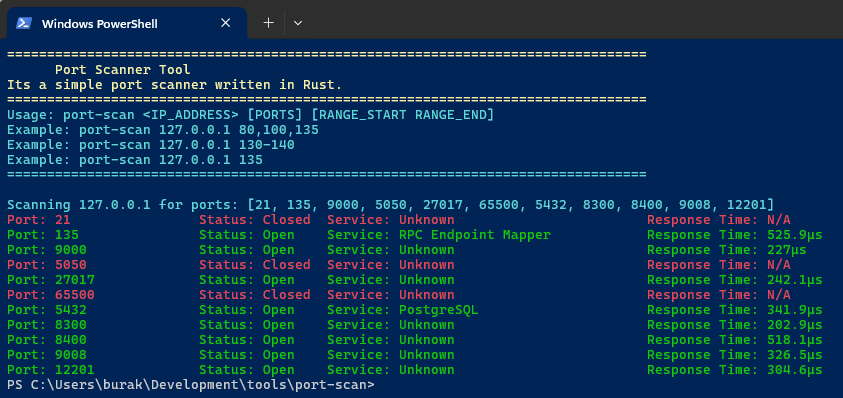
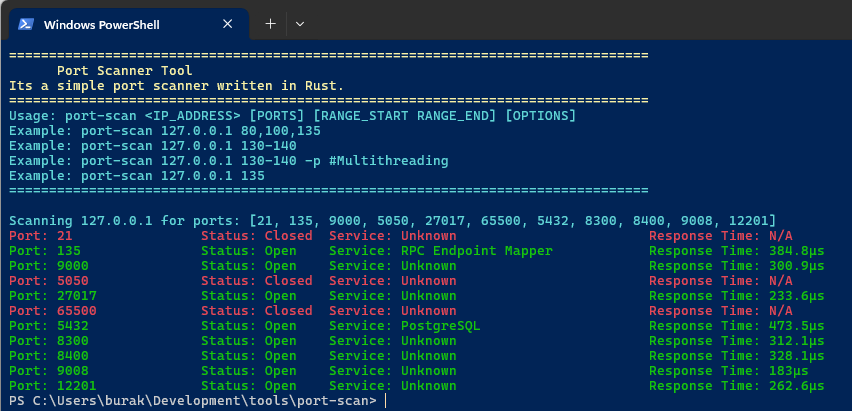
Update README and images for port scanner: enhance usage examples, add multithreading support, and include new output screenshots

Changed region(s): [[0.0, 0.1206, 0.987, 0.995], [0.0, 0.0, 0.1851, 0.0905], [0.2467, 0.0302, 0.2776, 0.0603]]

diff --git a/port-scan/README.md b/port-scan/README.md
@@ -5,25 +5,34 @@ Bu uygulama belirtilen IP adresindeki açık portları tarar ve sonuçları kull
 ## Kullanım
 
 ```bash
-cargo run -- <IP_ADRESI> <PORT|PORT_ARALIGI|PORT_LISTESI>
+cargo run -- <IP_ADRESI> <PORT|PORT_ARALIGI|PORT_LISTESI> [OPTIONS]
 
 # Örnekler:
-cargo run -- 192.168.1.1 80
-cargo run -- 192.168.1.1 1000-2000
-cargo run -- 192.168.1.1 22,80,443
+cargo run -- 192.168.1.1 80 # Tek bir portu tarama
+cargo run -- 192.168.1.1 1000-2000 # Belirli bir port aralığını tarama
+cargo run -- 192.168.1.1 22,80,443 # Belirli portları tarama
+cargo run -- 192.168.1.1 135-200 -p # Çoklu iş parçacığı kullanarak tarama
 ```
 
-## Çalışma Zamanından Örnekler
+## Örnek Ekran Çıktıları
 
 ```bash
+# Belli başlı portları tarama
 cargo run -- 127.0.0.1 21,135,9000,5050,27017,65500,5432,8300,8400,9008,12201
 ```
 
 ![port_scan_00.png](../images/port_scan_00.png)
 
 ```bash
+# Belirli bir port aralığını tarama
 cargo run -- 127.0.0.1 135-137
-
 ```
 
 ![port_scan_01.png](../images/port_scan_01.png)
+
+```bash
+# Çoklu iş parçacığı kullanarak port aralığını tarama
+cargo run -- 127.0.0.1 135-200 -p
+```
+
+![port_scan_02.png](../images/port_scan_02.png)

diff --git a/README.md b/README.md
@@ -11,3 +11,4 @@ Bu repoda Rust programlama dili ile yazılmış çeşitli sistem araçlarına ye
 ## Gerçekleştirilenler
 
 - **sys-tower** : Temel işlevsellik tamamlandı. CPU, bellek ve disk kullanım verileri renkli formatta terminal ekranına yazdırılıyor.
+- **port-scan** : Temel işlevsellik tamamlandı. Belirtilen IP adresi üzerinde belli bir port, port listesi veya port değer aralığında tarama yapıp sonuçları renkli formatta terminal ekranına yazdırıyor. Ayrıca belirli bir port aralığı için çoklu iş parçacığı ile tarama yapma desteği eklendi.
